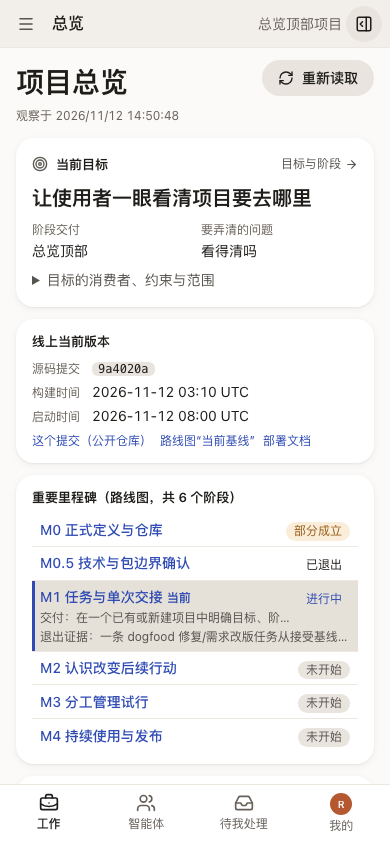
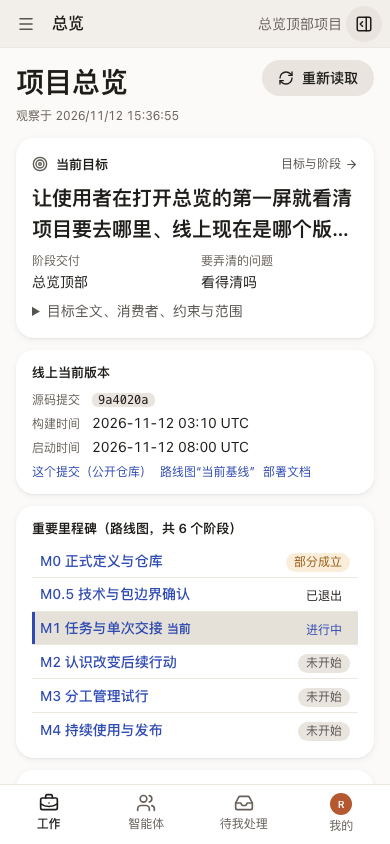
总览顶部：真实长度目标下 390×844 六阶段进首屏（标题两行、目标全文入折叠块、手机阶段行一行）

diff --git a/apps/workbench/src/features/overview/ProjectContext.tsx b/apps/workbench/src/features/overview/ProjectContext.tsx
@@ -138,9 +138,9 @@ export function ProjectContext({ token, projectId, refresh, active }: { token: s
     </ContextRailContent>}
     <section className={cn(card, "overview-goal")} aria-label="当前目标">
       {title(<Target />, "当前目标", <a href={href(projectId, "journey")} className="ml-auto flex items-center gap-1 text-caption text-text-secondary hover:text-foreground">目标与阶段 <ArrowRight size={13} aria-hidden="true" /></a>)}
-      <h3 className="text-heading font-semibold text-foreground">{goal?.outcome ?? (stages.length > 1 ? `当前有 ${stages.length} 个正在推进的阶段` : reading && !value ? "正在核对项目目标…" : value?.goalProblem ? "目标与阶段暂未核对完整" : value?.goals.length ? "项目有多个目标，请进入目标与阶段核对" : "项目目标尚未读回或登记")}</h3>
+      <h3 className="line-clamp-2 text-heading font-semibold text-foreground compact:line-clamp-none" title={goal?.outcome}>{goal?.outcome ?? (stages.length > 1 ? `当前有 ${stages.length} 个正在推进的阶段` : reading && !value ? "正在核对项目目标…" : value?.goalProblem ? "目标与阶段暂未核对完整" : value?.goals.length ? "项目有多个目标，请进入目标与阶段核对" : "项目目标尚未读回或登记")}</h3>
       {/* The inner rail is hidden below 1100px or when folded, so the card always offers every active stage. */}
-      {!stage && stages.length > 1 && <details className="text-small" data-stage-picker=""><summary className="cursor-pointer text-text-secondary">选一个阶段阅读（{stages.length} 个正在推进，页面不猜哪个是当前）</summary><div className="mt-2 flex flex-col gap-1">{stages.map(item => <div key={item.id} className="rounded-lg bg-field">{stageButton(item)}<span className="block px-3 pb-2 text-caption text-muted-foreground">{value?.goals.find(entry => entry.id === item.goalId)?.outcome ?? "目标名称尚未核对"}</span></div>)}</div></details>}
+      {!stage && stages.length > 1 && <details className="text-small" data-stage-picker=""><summary className="cursor-pointer text-text-secondary">选一个阶段阅读（{stages.length} 个正在推进）</summary><div className="mt-2 flex flex-col gap-1">{stages.map(item => <div key={item.id} className="rounded-lg bg-field">{stageButton(item)}<span className="block px-3 pb-2 text-caption text-muted-foreground">{value?.goals.find(entry => entry.id === item.goalId)?.outcome ?? "目标名称尚未核对"}</span></div>)}</div></details>}
       {stage && stages.length > 1 && <label className="flex flex-col gap-1">
         <span className={muted}>切换阶段 · 共 {stages.length} 个正在推进</span>
         <Select className="w-full" value={stage.id} onChange={event => choose(event.target.value)}>
@@ -148,10 +148,10 @@ export function ProjectContext({ token, projectId, refresh, active }: { token: s
         </Select>
       </label>}
       {stage ? <dl className="grid grid-cols-2 gap-x-3 gap-y-1 compact:gap-3">
-        <div><dt className={muted}>阶段交付</dt><dd className="m-0 line-clamp-2 text-small text-foreground compact:line-clamp-none">{stage.deliverable}</dd></div>
-        <div><dt className={muted}>要弄清的问题</dt><dd className="m-0 line-clamp-2 text-small text-foreground compact:line-clamp-none">{stage.learningQuestion}</dd></div>
+        <div><dt className={muted}>阶段交付</dt><dd className="m-0 line-clamp-1 text-small text-foreground compact:line-clamp-none">{stage.deliverable}</dd></div>
+        <div><dt className={muted}>要弄清的问题</dt><dd className="m-0 line-clamp-1 text-small text-foreground compact:line-clamp-none">{stage.learningQuestion}</dd></div>
       </dl> : <p className={muted}>{value && !value.goalProblem && stages.length === 0 ? "没有读到正在推进的阶段。可与现有责任智能体明确首项工作、消费者和需要补的证据。" : "按真实阶段关系阅读，不从最近任务或队列推定项目目标。"}</p>}
-      {goal && <details className="text-small"><summary className="cursor-pointer text-text-secondary">目标的消费者、约束与范围</summary><div className="mt-2 flex flex-col gap-1 text-text-secondary"><p>消费者：{goal.consumer} · 责任：{isRoleOwnerId(goal.owner) ? <RoleName projectId={projectId} roleId={goal.owner} /> : goal.owner}</p><p>{goal.constraints}</p><p>{goal.scope}</p></div></details>}
+      {goal && <details className="text-small"><summary className="cursor-pointer text-text-secondary">目标全文、消费者、约束与范围</summary><div className="mt-2 flex flex-col gap-1 text-text-secondary"><p className="compact:hidden">目标：{goal.outcome}</p><p>消费者：{goal.consumer} · 责任：{isRoleOwnerId(goal.owner) ? <RoleName projectId={projectId} roleId={goal.owner} /> : goal.owner}</p><p>{goal.constraints}</p><p>{goal.scope}</p></div></details>}
       {value?.goalProblem && <div className={problem} role="status">目标与阶段读取未完成，已读工作仍可查看。<details><summary className="cursor-pointer">读取原因</summary>{value.goalProblem}</details></div>}
       {value?.retainedGoals && <p className={problem}>保留上次目标与阶段，读于 {value.goalObservedAt ? date(value.goalObservedAt) : "上次读取"}，本次未能确认最新状态。</p>}
       {value && !value.goalsComplete && <p className={muted}>目标列表仅覆盖已读部分。</p>}

diff --git a/apps/workbench/test/overview-top-browser.test.ts b/apps/workbench/test/overview-top-browser.test.ts
@@ -12,6 +12,8 @@ const modulePath = process.env.EVOLOOP_BROWSER_TEST_PLAYWRIGHT_MODULE;
 const shots = process.env.EVOLOOP_OVERVIEW_SCREENSHOT_DIR;
 const dist = resolve(import.meta.dirname, "../dist");
 const projectId = "42000001-0000-4000-8000-000000000001", goalId = "42000009-0000-4000-8000-000000000009", stageId = "42000011-0000-4000-8000-000000000011";
+// About 150 characters, the length of the real project's goal: at 390px it wraps to seven lines unless the page clamps it.
+const LONG_GOAL = "让使用者在打开总览的第一屏就看清项目要去哪里、线上现在是哪个版本、六个路线图阶段各做到了哪一步，并且不需要滚动或点开任何东西，就能知道下一步该核对什么、找谁、看哪份证据、这些证据是什么时候读到的；若证据过期，要能一眼分辨哪些来源还没有读回、哪些只是保留了上一次读回的结果，不必再点进去核对。";
 const stamp = "2026-11-12T08:00:00.000Z";
 const phases = [
   ["M0", "正式定义与仓库", "产品目标、架构边界、规范、决定和可重建文档站；供后续切片共用同一判断依据", "新 checkout 能重建，未参与编写者能按文档解释一个目标→任务→使用→下一步的场景并定位边界"],
@@ -39,7 +41,7 @@ test("overview top: goal, version, six phases with one current, the three blocks
         }
         else if (url.pathname === base) value = { id: projectId, title: "总览顶部项目", createdAt: stamp };
         else if (url.pathname === `${base}/impacts` || url.pathname === `${base}/resident-queues`) value = [];
-        else if (url.pathname === `${base}/goals`) value = { items: mode === "day1" ? [] : [{ projectId, id: goalId, version: 1, outcome: "让使用者一眼看清项目要去哪里", constraints: "数据来自服务", consumer: "使用者",
+        else if (url.pathname === `${base}/goals`) value = { items: mode === "day1" ? [] : [{ projectId, id: goalId, version: 1, outcome: LONG_GOAL, constraints: "数据来自服务", consumer: "使用者",
           authority: "负责人", scope: "总览", owner: "o", createdAt: stamp, actorId: "reader" }], nextCursor: null };
         else if (url.pathname === `${base}/stages`) value = mode === "day1" ? [] : mode === "multi" ? phases.slice(0, 5).map(([key, title, deliver, exit], index) => ({ projectId, id: `4200001${index}-0000-4000-8000-00000000001${index}`, goalId, version: 2, state: "active",
           deliverable: `${key} ${title}：${deliver}；${exit}`, learningQuestion: `${key} 要弄清：${exit}，并且这一段文字故意写得很长，用来证明多个进行中的阶段不会把版本和里程碑挤出首屏`, createdAt: stamp, actorId: "reader" })) : [{ projectId, id: stageId, goalId, version: 2, state: "active", deliverable: "总览顶部", learningQuestion: "看得清吗", createdAt: stamp, actorId: "reader" }];
@@ -102,7 +104,7 @@ test("overview top: goal, version, six phases with one current, the three blocks
       assert.match(text, /源码提交[\s\S]*9a4020a/); assert.match(text, /构建时间[\s\S]*2026-11-12 03:10 UTC/); assert.match(text, /启动时间/); assert.doesNotMatch(text, /发布时间/, "the start time is not called the release time");
       const links = await page.locator("[data-overview-version] a").evaluateAll(items => items.map(item => item.getAttribute("href")));
       assert.deepEqual(links, ["https://github.com/cyl19970726/evoLoop/commit/9a4020a5886be01b2d74fe850687ca7355b2d226", "https://github.com/cyl19970726/evoLoop/blob/main/docs/roadmap.md#当前基线", "https://github.com/cyl19970726/evoLoop/blob/main/docs/development/local-run.md"]);
-      assert.ok((await page.locator("[data-phase][data-current]").innerText()).includes("退出证据"), "the current phase shows its exit evidence");
+      if (width >= 1000) assert.ok((await page.locator("[data-phase][data-current]").innerText()).includes("退出证据"), "the current phase shows its exit evidence on the wide page");
       for (const word of ["部分成立", "已退出", "进行中", "未开始", ...(width >= 1000 ? ["回看于 2026-11-10", "未登记"] : [])]) assert.ok(text.includes(word), word);
       if (shots) { await page.screenshot({ path: `${shots}/overview-top-${width}.png` }); await page.screenshot({ path: `${shots}/overview-top-${width}-full.png`, fullPage: true }); }
       const m = await measure(page, `linked ${width}x${height}`);
@@ -140,6 +142,8 @@ test("overview top: goal, version, six phases with one current, the three blocks
       assert.equal(m.phaseCount, 6);
       assert.ok(m.versionBottom! <= height - (width >= 1000 ? 0 : 64), `the version is on the first screen at ${width}x${height} (bottom ${m.versionBottom})`);
       assert.ok(m.lastPhaseBottom <= height - (width >= 1000 ? 0 : 64), `all six phases are on the first screen at ${width}x${height} (last bottom ${m.lastPhaseBottom})`);
+      assert.ok(LONG_GOAL.length >= 140, "the goal fixture is as long as the real one");
+      assert.ok(m.lastPhaseBottom < 784, `the last phase ends above the phone's bottom bar (top at 784), at ${m.lastPhaseBottom}`);
       await picker.locator("summary").click();
       assert.equal(await picker.locator("button").count(), 5, "opening the list shows all five stages");
       await multi.close();

diff --git a/apps/workbench/src/features/overview/MilestonesBlock.tsx b/apps/workbench/src/features/overview/MilestonesBlock.tsx
@@ -43,8 +43,8 @@ export function MilestonesBlock({ projectId, active }: { projectId: string; acti
               <span className="col-start-1 row-start-1 min-w-0 text-small font-medium @3xl:col-start-1 @3xl:row-start-1">
                 <a className="text-primary hover:underline" href={href(projectId, "journey")}>{row.id} {row.title}</a>
                 {row.current && <span className="ml-1 text-caption font-semibold text-primary">当前</span>}</span>
-              <span className={`${row.current ? "" : "hidden @3xl:block "}col-start-1 row-start-2 line-clamp-1 text-caption text-text-secondary @3xl:col-start-2 @3xl:row-start-1 @3xl:line-clamp-2 @3xl:text-small`}><span className="@3xl:hidden">交付：</span>{row.deliver}</span>
-              <span className={`${row.current ? "" : "hidden @3xl:block "}col-span-2 @sm:col-span-3 col-start-1 row-start-3 line-clamp-1 text-caption text-text-secondary @3xl:col-span-1 @3xl:col-start-3 @3xl:row-start-1 @3xl:line-clamp-2 @3xl:text-small`}><span className="@3xl:hidden">退出证据：</span>{row.exit}</span>
+              <span className={`${row.current ? "hidden @sm:block " : "hidden @3xl:block "}col-start-1 row-start-2 line-clamp-1 text-caption text-text-secondary @3xl:col-start-2 @3xl:row-start-1 @3xl:line-clamp-2 @3xl:text-small`}><span className="@3xl:hidden">交付：</span>{row.deliver}</span>
+              <span className={`${row.current ? "hidden @sm:block " : "hidden @3xl:block "}col-span-2 @sm:col-span-3 col-start-1 row-start-3 line-clamp-1 text-caption text-text-secondary @3xl:col-span-1 @3xl:col-start-3 @3xl:row-start-1 @3xl:line-clamp-2 @3xl:text-small`}><span className="@3xl:hidden">退出证据：</span>{row.exit}</span>
               <span className="col-start-2 row-start-1 justify-self-end @3xl:col-start-4 @3xl:row-start-1 @3xl:justify-self-start"><span className={`inline-block whitespace-nowrap rounded-full px-2 text-caption ${toneClass[row.tone]}`}>{row.status}</span></span>
               <span className="hidden @sm:block @sm:col-start-3 @sm:row-start-1 col-start-2 row-start-2 justify-self-end whitespace-nowrap text-caption text-text-secondary @3xl:col-start-5 @3xl:row-start-1 @3xl:justify-self-start @3xl:text-small">{row.date === NOT_REGISTERED ? NOT_REGISTERED : row.date}</span>
             </li>)}

diff --git a/docs/frontend/overview-top-design.md b/docs/frontend/overview-top-design.md
@@ -96,4 +96,6 @@ Task `e5af6765`（2026-11-12 返工）。使用者要从总览一眼看清三件
 
 ## 多个进行中的阶段（发布后返工）
 
-正式项目的 M0–M4 五个阶段同时是进行中。按已确认规则不猜当前阶段，页面写“有多个进行中的阶段，不猜哪个是当前”，没有高亮；目标卡里的“选一个阶段阅读”列表默认折叠成一行，展开后仍列出每个阶段的全文，所以目标、版本、6 个阶段留在首屏。浏览器回归（`apps/workbench/test/overview-top-browser.test.ts`，五个进行中阶段、每个阶段文字很长）实测：1440×900 最后阶段底边 595；390×844 最后阶段底边 763（标签栏之上），均无水平溢出；截图 [1440](../assets/frontend-pages/overview-top-1440-multi-active.png)、[390](../assets/frontend-pages/overview-top-390-multi-active.png)。
+正式项目的 M0–M4 五个阶段同时是进行中，目标正文约 150 字。按已确认规则不猜当前阶段，页面写“有多个进行中的阶段，不猜哪个是当前”，没有高亮。为让目标、版本、6 个阶段留在首屏：目标卡里的“选一个阶段阅读”列表默认折叠成一行（展开后仍列每个阶段全文）；手机宽度下目标标题最多两行，全文放进卡里的“目标全文、消费者、约束与范围”折叠块；手机上阶段行只留一行，当前阶段的“交付/退出证据”只在较宽的版面展开。
+
+浏览器回归（`apps/workbench/test/overview-top-browser.test.ts`，目标夹具约 145 字、五个进行中阶段）实测：1440×900 最后阶段底边 719；390×844 最后阶段底边 772，在底部标签栏顶（784）之上，无水平溢出；去掉标题两行限制后该测试在 390 下失败（最后阶段底边 994）。截图 [1440](../assets/frontend-pages/overview-top-1440-multi-active.png)、[390](../assets/frontend-pages/overview-top-390-multi-active.png)。该测试需要本机 Playwright 模块（`EVOLOOP_BROWSER_TEST_PLAYWRIGHT_MODULE`），CI 不设置时会跳过，所以交付要写本机运行结果。
